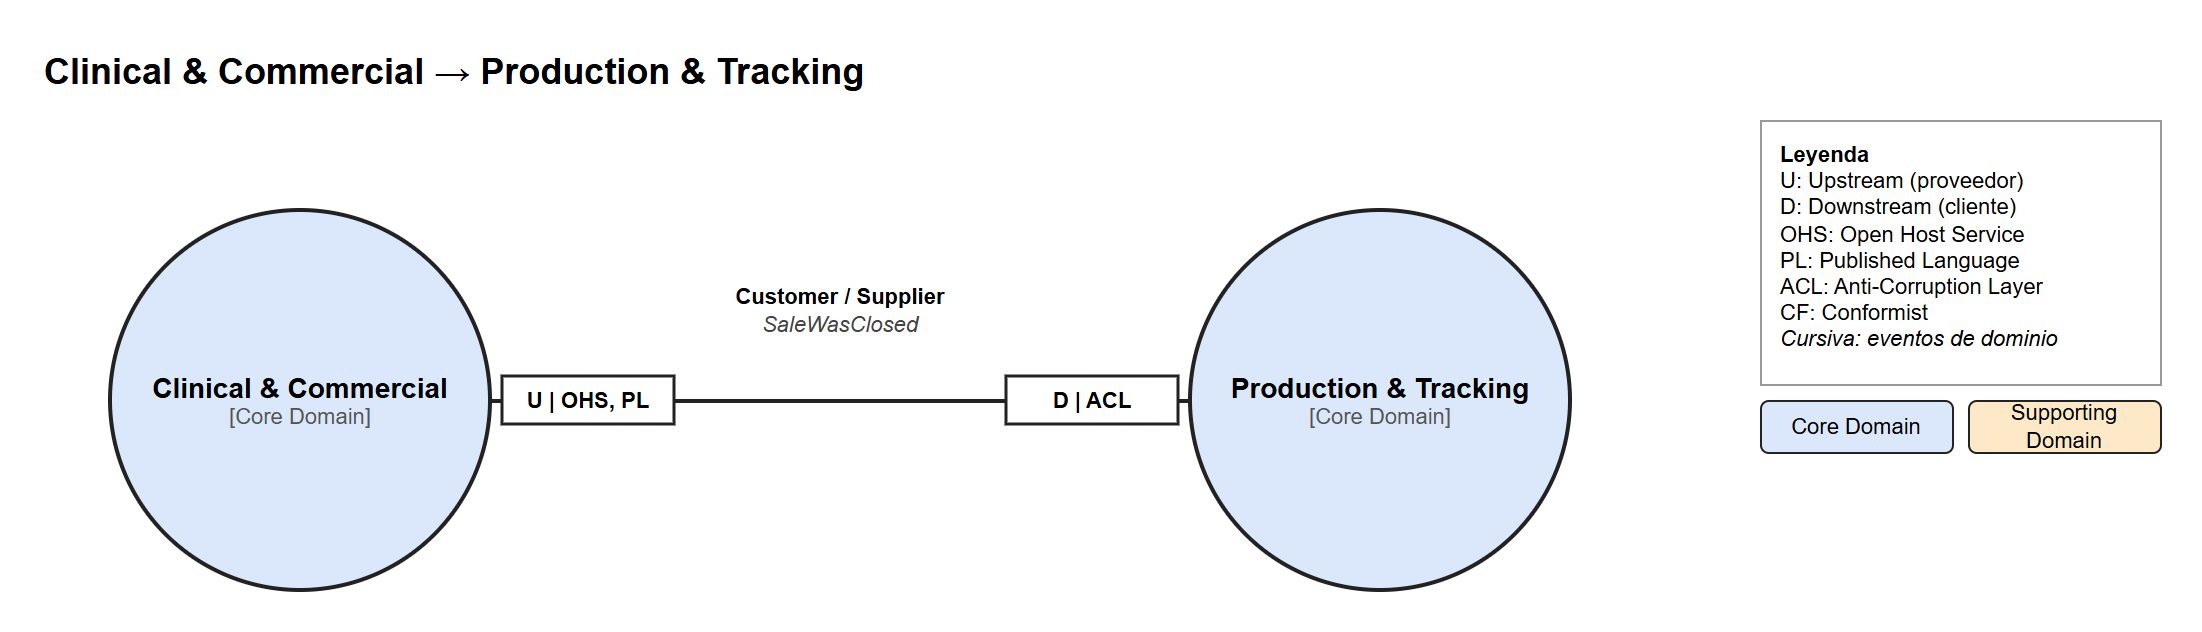
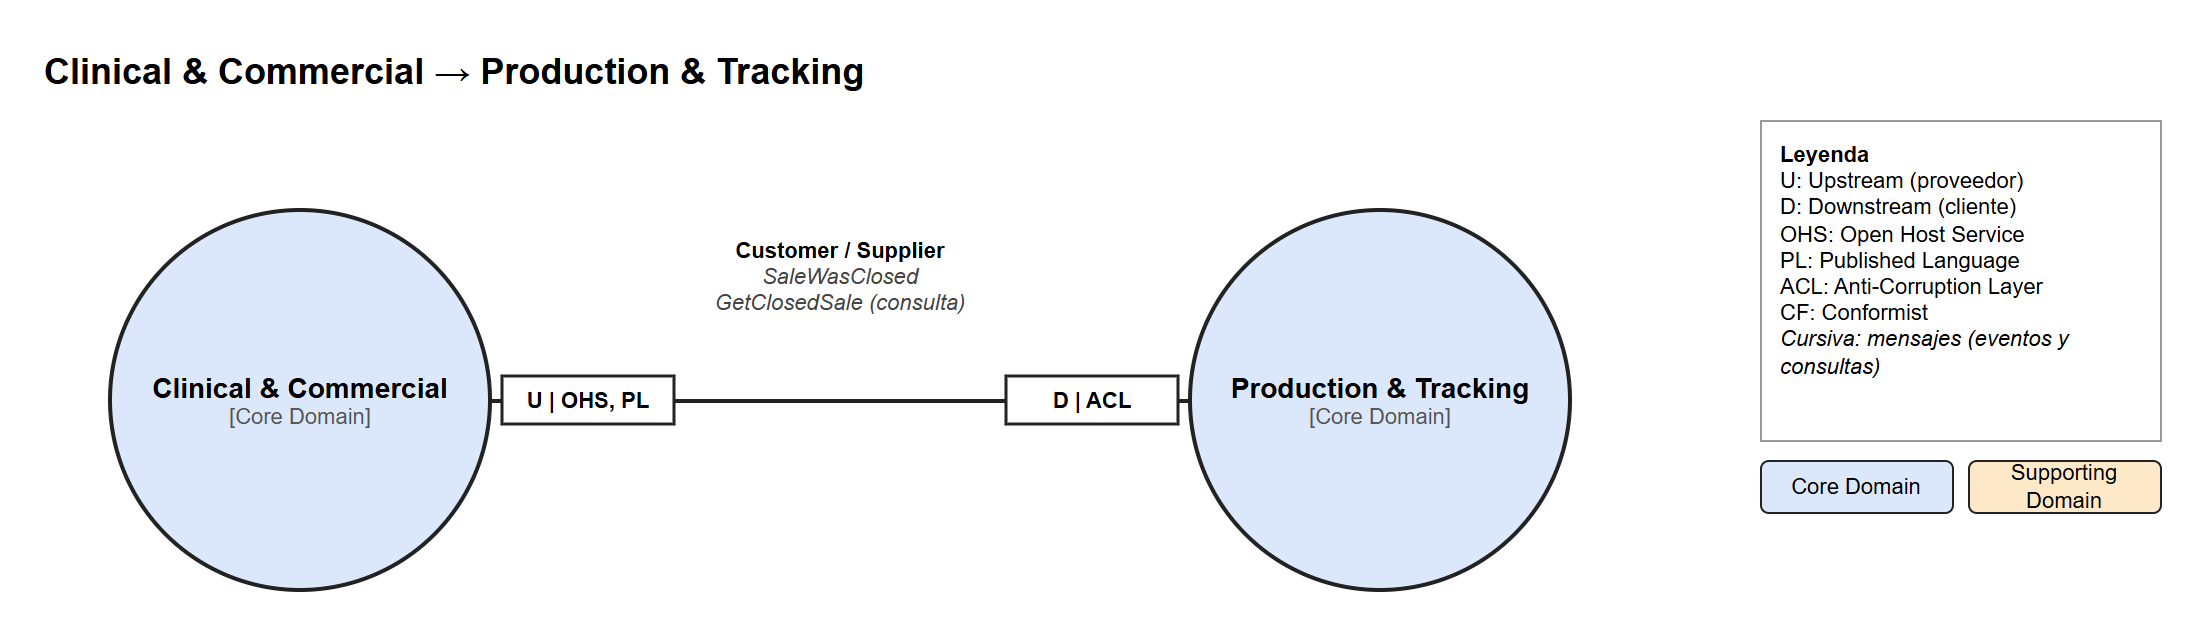
docs: add cross-context queries

Changed region(s): [[0.772, 0.5111, 0.9882, 0.8117], [0.3088, 0.3908, 0.4323, 0.5411]]

diff --git a/Capitulo2.md b/Capitulo2.md
@@ -1022,7 +1022,7 @@ La Tabla 17 resume los eventos que conectan a los Bounded Contexts y el comando 
 | 6 | Production & Tracking | `DeliveryDelayNotified` | Notification & Loyalty | `SendDeliveryDelayNotification` | 5 |
 | 7 | Production & Tracking | `OrderWasMarkedAsDelivered` | Notification & Loyalty | `SendSatisfactionSurvey` | 6 |
 
-El escenario 2 no aparece en la tabla porque sus mensajes se resuelven dentro de Clinical & Commercial y no publica eventos hacia otros contextos. Además de estos flujos entre contextos, Notification & Loyalty gestiona internamente el descuento de cumpleaños: el comando `GrantBirthdayDiscount` registra el beneficio y publica el evento `BirthdayDiscountWasSent`, sin intervención de otros contextos.
+La tabla solo incluye eventos. Además, dos contextos consultan información de otro: Clinical & Commercial consulta la cita a Search & Booking (`GetAppointment`, escenario 2) y Production & Tracking consulta la venta cerrada a Clinical & Commercial (`GetClosedSale`, escenario 3). Además de estos flujos entre contextos, Notification & Loyalty gestiona internamente el descuento de cumpleaños: el comando `GrantBirthdayDiscount` registra el beneficio y publica el evento `BirthdayDiscountWasSent`, sin intervención de otros contextos.
 
 **Escenario 1: Búsqueda y reserva de cita**
 
@@ -1040,7 +1040,7 @@ El paciente busca una óptica desde App OptiFlow y consulta sus horarios disponi
 
 **Escenario 2: Atención clínica del paciente**
 
-El optómetra consulta los registros clínicos previos del paciente (`GetClinicalRecordsByPatientId`) y luego registra la atención, su historia médica y la receta óptica (`RegisterClinicalRecord`, `RecordMedicalHistory` y `GenerateOpticalPrescription`). Todos estos mensajes se resuelven dentro de Clinical & Commercial, como se muestra en la Figura 20.
+El optómetra consulta los registros clínicos previos del paciente (`GetClinicalRecordsByPatientId`) y registra la atención (`RegisterClinicalRecord`). Para hacerlo, Clinical & Commercial consulta a Search & Booking la cita reservada (`GetAppointment`) y confirma a qué paciente pertenece y que no fue cancelada. Luego, el optómetra registra la historia médica y la receta óptica (`RecordMedicalHistory` y `GenerateOpticalPrescription`), como se muestra en la Figura 20.
 
 <a id="figura-20"></a>
 
@@ -1054,7 +1054,7 @@ El optómetra consulta los registros clínicos previos del paciente (`GetClinica
 
 **Escenario 3: Cotización y venta**
 
-El asesor comercial genera la cotización a partir de la receta, la aprueba con el paciente, registra la venta y el pago, y cierra la venta (`GenerateQuotation`, `ApproveQuotation`, `RegisterSale`, `RecordPayment` y `CloseSale`). El cierre publica el evento `SaleWasClosed` hacia Production & Tracking y Store Management & Inventory, como se muestra en la Figura 21. Al recibirlo, Production & Tracking genera la orden de trabajo de los lentes (`GenerateWorkOrder`) y Store Management & Inventory descuenta del stock los productos vendidos (`UpdateInventory`).
+El asesor comercial genera la cotización a partir de la receta, la aprueba con el paciente, registra la venta y el pago, y cierra la venta (`GenerateQuotation`, `ApproveQuotation`, `RegisterSale`, `RecordPayment` y `CloseSale`). El cierre publica el evento `SaleWasClosed` hacia Production & Tracking y Store Management & Inventory, como se muestra en la Figura 21. Al recibirlo, Production & Tracking genera la orden de trabajo de los lentes (`GenerateWorkOrder`) y Store Management & Inventory descuenta del stock los productos vendidos (`UpdateInventory`). Para preparar la orden, Production & Tracking consulta a Clinical & Commercial la venta cerrada (`GetClosedSale`) y obtiene las especificaciones de las lunas.
 
 <a id="figura-21"></a>
 
@@ -1317,7 +1317,7 @@ A partir del mapa candidato, el equipo evaluó alternativas de diseño mediante 
 | :-: | :--- | :--- | :--- |
 | 1 | ¿Qué pasaría si partimos Clinical & Commercial en un contexto clínico y otro comercial? | La cotización se genera a partir de la receta y del expediente de la misma atención. Separarlos obligaría a publicar eventos adicionales y a copiar el expediente en el contexto comercial para cada venta. | Se mantiene un solo contexto: la atención clínica y la venta forman parte de la misma visita del paciente. |
 | 2 | ¿Qué pasaría si movemos el recordatorio de citas a Search & Booking? | Search & Booking tendría que gestionar mensajes y avisos, una capacidad que Notification & Loyalty ya cumple para el avance de los pedidos. Se duplicaría la lógica de notificaciones en dos contextos. | Notification & Loyalty programa el recordatorio; Search & Booking solo publica `AppointmentBooked`. |
-| 3 | ¿Qué pasaría si incluimos la receta completa y la cotización dentro de `SaleWasClosed`? | El evento quedaría acoplado al modelo comercial: cualquier cambio en la cotización afectaría a Production & Tracking, que además recibiría precios y pagos que no necesita. | El evento lleva los identificadores de la venta. Production & Tracking obtiene las especificaciones de las lunas mediante su ACL, que traduce la receta y descarta los datos comerciales. |
+| 3 | ¿Qué pasaría si incluimos la receta completa y la cotización dentro de `SaleWasClosed`? | El evento quedaría acoplado al modelo comercial: cualquier cambio en la cotización afectaría a Production & Tracking, que además recibiría precios y pagos que no necesita. | El evento lleva los identificadores de la venta. Production & Tracking obtiene las especificaciones de las lunas con la consulta `GetClosedSale`, mediante su ACL, que traduce la receta y descarta los datos comerciales. |
 | 4 | ¿Qué pasaría si Store Management & Inventory consulta la venta en Clinical & Commercial para saber qué descontar? | Inventory dependería del modelo interno de la cotización y de la disponibilidad de otro contexto en el momento del descuento. | Clinical & Commercial, como Supplier, incluye en `SaleWasClosed` los productos vendidos (`productSku` y `quantity`). Inventory los traduce a movimientos de stock con `UpdateInventory`. |
 | 5 | ¿Qué pasaría si creamos un Shared Kernel con el modelo del paciente para todos los contextos? | Un cambio en el paciente obligaría a coordinar los cinco contextos. Cada contexto solo necesita el identificador del paciente para relacionar su información. | Cada contexto guarda `patientId` como value object propio. El Shared Kernel se limita a contratos técnicos: `DomainEvent`, `DomainEventPublisher` y `DomainException`. |
 | 6 | ¿Qué pasaría si aislamos las capacidades core y movemos notificaciones e inventario a contextos aparte? | Los contextos core (Search & Booking, Clinical & Commercial y Production & Tracking) concentran el flujo principal del paciente. Notificaciones e inventario apoyan ese flujo, pero no lo controlan. | Se adopta: los contextos supporting dependen de los eventos de los contextos core, y ningún contexto core depende de un contexto supporting. |
@@ -1338,7 +1338,7 @@ Como resultado del análisis, el context map final conserva los cinco Bounded Co
 
 *Nota.* Elaboración propia.
 
-La Tabla 24 resume cada relación del mapa final, los eventos que la conectan y el componente del backend que la implementa.
+La Tabla 24 resume cada relación del mapa final, los mensajes que la conectan (eventos y consultas) y el componente del backend que la implementa.
 
 <a id="tabla-24"></a>
 
@@ -1346,11 +1346,11 @@ La Tabla 24 resume cada relación del mapa final, los eventos que la conectan y 
 
 *Relaciones del context map final de OptiFlow*
 
-| Upstream | Downstream | Relación | Patrones | Eventos | Comando ejecutado | Implementación en el backend |
+| Upstream | Downstream | Relación | Patrones | Mensajes | Comando ejecutado | Implementación en el backend |
 | :--- | :--- | :--- | :--- | :--- | :--- | :--- |
-| Search & Booking | Clinical & Commercial | Customer / Supplier | OHS, PL / ACL | `AppointmentBooked` | `ExaminePatient` | `SearchBookingAppointmentAdapter` (ACL) |
+| Search & Booking | Clinical & Commercial | Customer / Supplier | OHS, PL / ACL | `AppointmentBooked` (evento), `GetAppointment` (consulta) | `ExaminePatient` | `SearchBookingAppointmentAdapter` (ACL) |
 | Search & Booking | Notification & Loyalty | Conformist | OHS, PL / CF | `AppointmentBooked` | `ScheduleAppointmentReminder` | `AppointmentBookedEventHandler` |
-| Clinical & Commercial | Production & Tracking | Customer / Supplier | OHS, PL / ACL | `SaleWasClosed` | `GenerateWorkOrder` | `ClinicalCommercialSaleAdapter` (ACL) |
+| Clinical & Commercial | Production & Tracking | Customer / Supplier | OHS, PL / ACL | `SaleWasClosed` (evento), `GetClosedSale` (consulta) | `GenerateWorkOrder` | `ClinicalCommercialSaleAdapter` (ACL) |
 | Clinical & Commercial | Store Management & Inventory | Customer / Supplier | OHS, PL / ACL | `SaleWasClosed` | `UpdateInventory` | `SaleWasClosedEventHandler` (ACL) |
 | Production & Tracking | Notification & Loyalty | Conformist | OHS, PL / CF | `WorkOrderStatusUpdated`, `DeliveryDelayNotified`, `OrderWasMarkedAsDelivered` | `NotifyLensOrderProgress`, `SendDeliveryDelayNotification`, `SendSatisfactionSurvey` | `WorkOrderStatusUpdatedEventHandler`, `ProductionDeliveryDelayNotifiedEventHandler`, `OrderWasMarkedAsDeliveredEventHandler` |
 
@@ -1372,8 +1372,8 @@ La relación entre Search & Booking y Clinical & Commercial se muestra en la Fig
 
 **Patrón: Customer / Supplier, con Open Host Service y Published Language en el upstream y Anti-Corruption Layer en el downstream.**
 
-- **Search & Booking como upstream:** registra la reserva y publica el evento `AppointmentBooked` con `appointmentId`, `patientId`, `opticalStoreId` y `timeSlotId`. También ofrece la consulta de la cita para los contextos que necesitan confirmar su estado.
-- **Clinical & Commercial como downstream:** al recibir el evento ejecuta `ExaminePatient` y abre el expediente clínico de la atención. Su ACL (`SearchBookingAppointmentAdapter`) traduce la cita al modelo clínico (`BookedAppointment`), con lo que los cambios en la agenda o en los estados de la reserva no alteran las reglas del expediente.
+- **Search & Booking como upstream:** registra la reserva y publica el evento `AppointmentBooked` con `appointmentId`, `patientId`, `opticalStoreId` y `timeSlotId`. También responde la consulta `GetAppointment`, que devuelve el paciente y el estado de una cita.
+- **Clinical & Commercial como downstream:** al recibir el evento ejecuta `ExaminePatient` y abre el expediente clínico de la atención. Al registrar la atención, consulta la cita con `GetAppointment`; su ACL (`SearchBookingAppointmentAdapter`) traduce la respuesta al modelo clínico (`BookedAppointment`), con lo que los cambios en la agenda o en los estados de la reserva no alteran las reglas del expediente.
 
 ##### Search & Booking → Notification & Loyalty
 
@@ -1410,8 +1410,8 @@ La relación entre Clinical & Commercial y Production & Tracking se muestra en l
 
 **Patrón: Customer / Supplier, con Open Host Service y Published Language en el upstream y Anti-Corruption Layer en el downstream.**
 
-- **Clinical & Commercial como upstream:** al cerrar la venta publica `SaleWasClosed` con `saleId`, `quotationId`, `clinicalRecordId`, `patientId`, `totalAmount` y los productos vendidos. También ofrece la consulta de la venta, la cotización y el expediente clínico.
-- **Production & Tracking como downstream:** al recibir el evento ejecuta `GenerateWorkOrder`. Su ACL (`ClinicalCommercialSaleAdapter`) consulta la venta y traduce la receta óptica en especificaciones de lunas (esfera, cilindro, eje, adición y tratamiento), descartando precios, pagos y datos de facturación que la fabricación no necesita.
+- **Clinical & Commercial como upstream:** al cerrar la venta publica `SaleWasClosed` con `saleId`, `quotationId`, `clinicalRecordId`, `patientId`, `totalAmount` y los productos vendidos. También responde la consulta `GetClosedSale`, que reúne los datos de la venta, la cotización y el expediente clínico.
+- **Production & Tracking como downstream:** al recibir el evento ejecuta `GenerateWorkOrder`. Su ACL (`ClinicalCommercialSaleAdapter`) consulta la venta con `GetClosedSale` y traduce la receta óptica en especificaciones de lunas (esfera, cilindro, eje, adición y tratamiento), descartando precios, pagos y datos de facturación que la fabricación no necesita.
 
 ##### Clinical & Commercial → Store Management & Inventory
 
